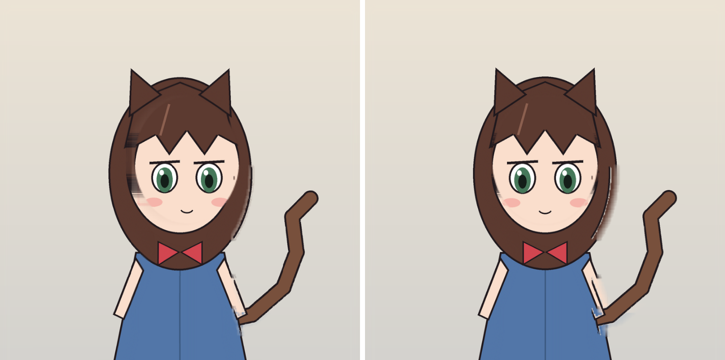
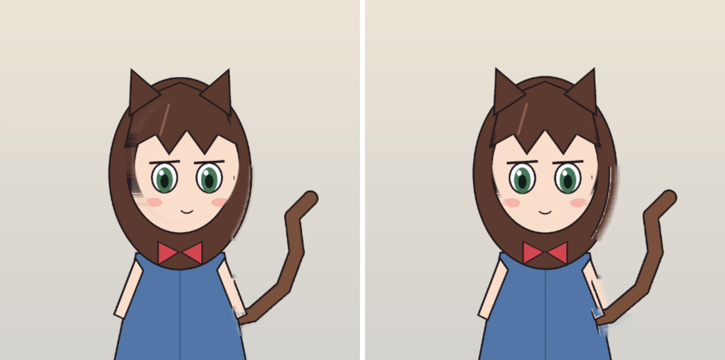
2-D 결함 수정: 셰이더 함수 위치(컴파일 실패로 캔버스 전환), 채널 마스크를 ImageData로(premultiplied 손실). run.js가 WebGL 실패 경고를 오류로 셈
Claude-Session: https://claude.ai/code/session_01MXKXtSujweeuSRoCUPHbrx

diff --git a/motionpad.html b/motionpad.html
@@ -1667,12 +1667,10 @@ function updateTailCutout(){
  if(!plate)return;
  tailPlate=plate;
  tailMask=union;
- const packed=document.createElement('canvas');
- packed.width=packed.height=TILE;
- const pg=packed.getContext('2d'),img=pg.createImageData(TILE,TILE);
+ // 캔버스는 투명한 칸의 색을 지우므로(premultiplied) 픽셀 데이터를 그대로 텍스처로 올린다
+ const img=new ImageData(TILE,TILE);
  list.forEach((m,k)=>{const a=m.getContext('2d',{willReadFrequently:true}).getImageData(0,0,TILE,TILE).data;for(let i=0;i<TILE*TILE;i++)img.data[i*4+k]=a[i*4+3]});
- pg.putImageData(img,0,0);
- tailChannels=packed;
+ tailChannels=img;
  const baseIndex=zones.findIndex(z=>z.isBase);
  if(backgroundPlate&&baseIndex>=0&&!baseClipEnabled){
   const both=document.createElement('canvas');
@@ -1858,16 +1856,6 @@ varying vec2 v_uv;
 uniform float u_time;
 uniform vec4 u_ambient;
 uniform float u_baseExclude;
-vec4 tailLayer(vec4 color,vec2 source,int k,float light){
- vec4 foreground=texture2D(u_tailOriginal,source);
- vec4 m=texture2D(u_tailMask,source);
- float ch=k==0?m.r:k==1?m.g:k==2?m.b:m.a;
- float inside=step(0.0,source.x)*step(source.x,1.0)*step(0.0,source.y)*step(source.y,1.0);
- float alpha=inside*ch*foreground.a;
- float outAlpha=alpha+color.a*(1.0-alpha);
- vec3 rgb=(foreground.rgb*light*alpha+color.rgb*color.a*(1.0-alpha))/max(outAlpha,.00001);
- return vec4(rgb,outAlpha);
-}
 void main(){
   v_uv=a_uv;
   float topWeight=pow(clamp(1.0-a_uv.y,0.0,1.0),1.5);
@@ -1900,6 +1888,16 @@ float anchoredDistance(vec2 uv,vec4 piv,vec4 extra){
 float pointToSegment(vec2 uv,vec2 a,vec2 b,out float t){
  vec2 v=b-a;t=clamp(dot(uv-a,v)/max(dot(v,v),0.00001),0.0,1.0);
  return length(uv-(a+t*v));
+}
+vec4 tailLayer(vec4 color,vec2 source,int k,float light){
+ vec4 foreground=texture2D(u_tailOriginal,source);
+ vec4 m=texture2D(u_tailMask,source);
+ float ch=k==0?m.r:k==1?m.g:k==2?m.b:m.a;
+ float inside=step(0.0,source.x)*step(source.x,1.0)*step(0.0,source.y)*step(source.y,1.0);
+ float alpha=inside*ch*foreground.a;
+ float outAlpha=alpha+color.a*(1.0-alpha);
+ vec3 rgb=(foreground.rgb*light*alpha+color.rgb*color.a*(1.0-alpha))/max(outAlpha,.00001);
+ return vec4(rgb,outAlpha);
 }
 void main(){
  vec2 shift=vec2(0.0),flowVector=vec2(0.0);

diff --git a/src/js/shaders.js b/src/js/shaders.js
@@ -4,16 +4,6 @@ varying vec2 v_uv;
 uniform float u_time;
 uniform vec4 u_ambient;
 uniform float u_baseExclude;
-vec4 tailLayer(vec4 color,vec2 source,int k,float light){
- vec4 foreground=texture2D(u_tailOriginal,source);
- vec4 m=texture2D(u_tailMask,source);
- float ch=k==0?m.r:k==1?m.g:k==2?m.b:m.a;
- float inside=step(0.0,source.x)*step(source.x,1.0)*step(0.0,source.y)*step(source.y,1.0);
- float alpha=inside*ch*foreground.a;
- float outAlpha=alpha+color.a*(1.0-alpha);
- vec3 rgb=(foreground.rgb*light*alpha+color.rgb*color.a*(1.0-alpha))/max(outAlpha,.00001);
- return vec4(rgb,outAlpha);
-}
 void main(){
   v_uv=a_uv;
   float topWeight=pow(clamp(1.0-a_uv.y,0.0,1.0),1.5);
@@ -46,6 +36,16 @@ float anchoredDistance(vec2 uv,vec4 piv,vec4 extra){
 float pointToSegment(vec2 uv,vec2 a,vec2 b,out float t){
  vec2 v=b-a;t=clamp(dot(uv-a,v)/max(dot(v,v),0.00001),0.0,1.0);
  return length(uv-(a+t*v));
+}
+vec4 tailLayer(vec4 color,vec2 source,int k,float light){
+ vec4 foreground=texture2D(u_tailOriginal,source);
+ vec4 m=texture2D(u_tailMask,source);
+ float ch=k==0?m.r:k==1?m.g:k==2?m.b:m.a;
+ float inside=step(0.0,source.x)*step(source.x,1.0)*step(0.0,source.y)*step(source.y,1.0);
+ float alpha=inside*ch*foreground.a;
+ float outAlpha=alpha+color.a*(1.0-alpha);
+ vec3 rgb=(foreground.rgb*light*alpha+color.rgb*color.a*(1.0-alpha))/max(outAlpha,.00001);
+ return vec4(rgb,outAlpha);
 }
 void main(){
  vec2 shift=vec2(0.0),flowVector=vec2(0.0);

diff --git a/src/js/masks.js b/src/js/masks.js
@@ -165,12 +165,10 @@ function updateTailCutout(){
  if(!plate)return;
  tailPlate=plate;
  tailMask=union;
- const packed=document.createElement('canvas');
- packed.width=packed.height=TILE;
- const pg=packed.getContext('2d'),img=pg.createImageData(TILE,TILE);
+ // 캔버스는 투명한 칸의 색을 지우므로(premultiplied) 픽셀 데이터를 그대로 텍스처로 올린다
+ const img=new ImageData(TILE,TILE);
  list.forEach((m,k)=>{const a=m.getContext('2d',{willReadFrequently:true}).getImageData(0,0,TILE,TILE).data;for(let i=0;i<TILE*TILE;i++)img.data[i*4+k]=a[i*4+3]});
- pg.putImageData(img,0,0);
- tailChannels=packed;
+ tailChannels=img;
  const baseIndex=zones.findIndex(z=>z.isBase);
  if(backgroundPlate&&baseIndex>=0&&!baseClipEnabled){
   const both=document.createElement('canvas');

diff --git a/tools/baseline/run.js b/tools/baseline/run.js
@@ -92,7 +92,7 @@ async function newPage(browser, vp, theme, frozen = false) {
   if (theme) await context.addInitScript(t => { try { localStorage.setItem('motionpad-theme', t); } catch (_) {} }, theme);
   const page = await context.newPage();
   page.on('pageerror', e => results.errors.push(String(e)));
-  page.on('console', m => { if (m.type() === 'error') results.errors.push('console: ' + m.text()); });
+  page.on('console', m => { if (m.type() === 'error' || /WebGL 실행 실패/.test(m.text())) results.errors.push('console: ' + m.text().slice(0, 300)); });
   page.on('dialog', d => { results.notes.push('dialog: ' + d.message()); d.dismiss(); });
   await page.goto(URL);
   await page.waitForLoadState('load');

diff --git a/docs/progress/2-D.md b/docs/progress/2-D.md
@@ -14,4 +14,8 @@
 ![](img/2d-multi.png)
 
 ## 확인
-- 오류 0(셰이더 컴파일 포함). 두 영역이 각자 움직이고 빈자리가 메워짐.
+- 두 영역이 각자 움직이고 빈자리가 메워짐. WebGL 동작 확인.
+- 처음 커밋에 결함 2개가 있었다(같은 단계 안에서 고침):
+  1. 새 셰이더 함수를 꼭짓점 셰이더 쪽에 넣어 컴파일 실패 → 앱이 캔버스 방식으로 조용히 전환. 페이지 오류가 아니라 경고라 시험에 안 잡혔고, 회귀 측정에서 '모든 게 3배 빨라짐 + 고정 화면 차이'로 드러났다.
+  2. 영역 모양을 캔버스에 담았더니 투명한 칸의 색 채널이 지워짐(premultiplied) → 분리 영역이 안 보임. 픽셀 데이터(ImageData)를 그대로 텍스처로 올리게 바꿈.
+- 재발 방지: `run.js`가 'WebGL 실행 실패' 경고도 오류로 센다.
